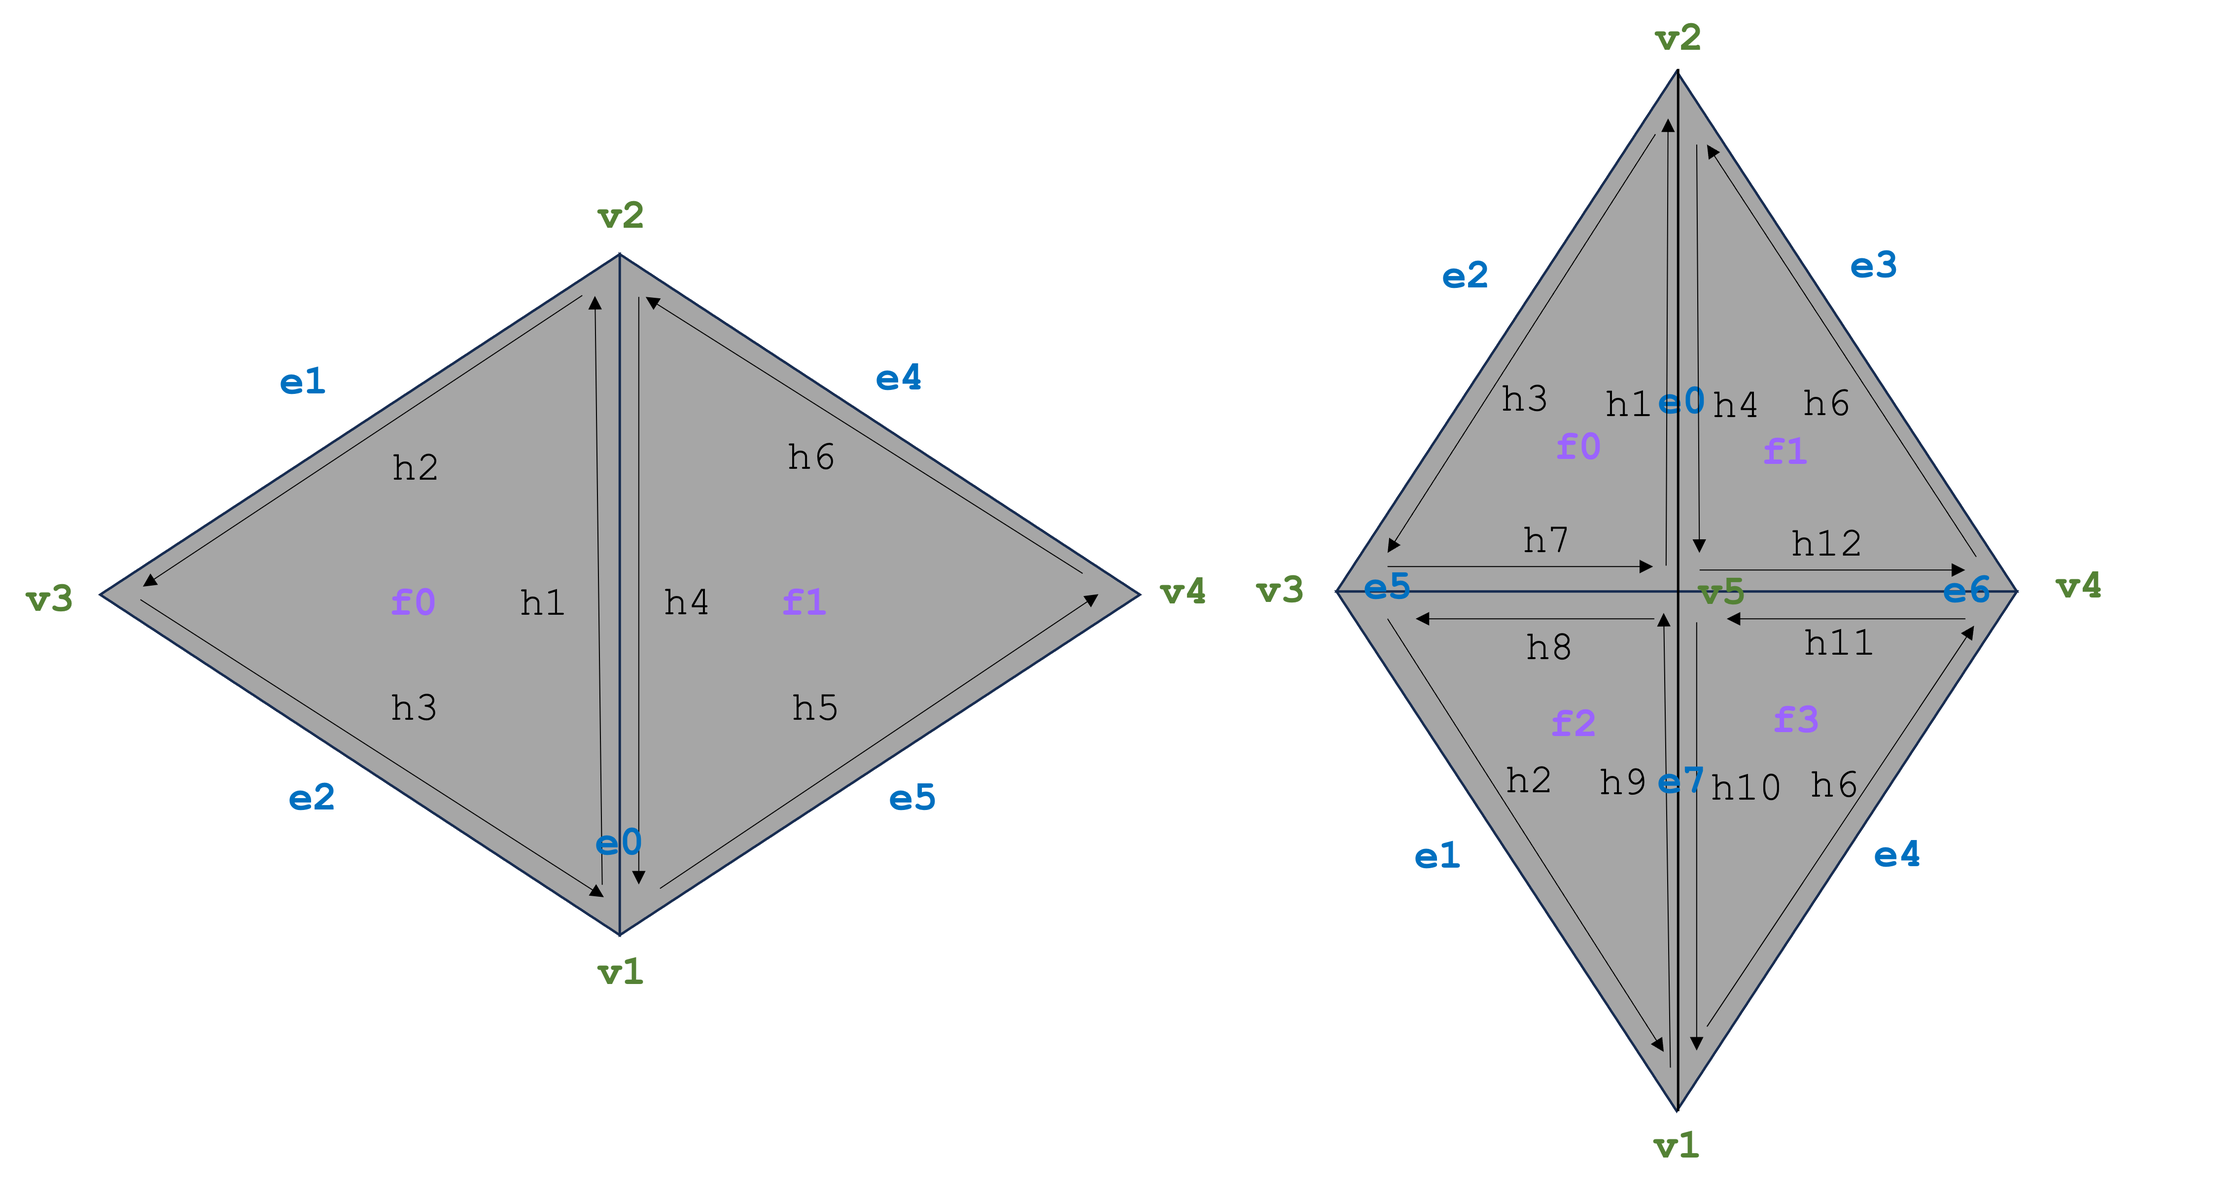
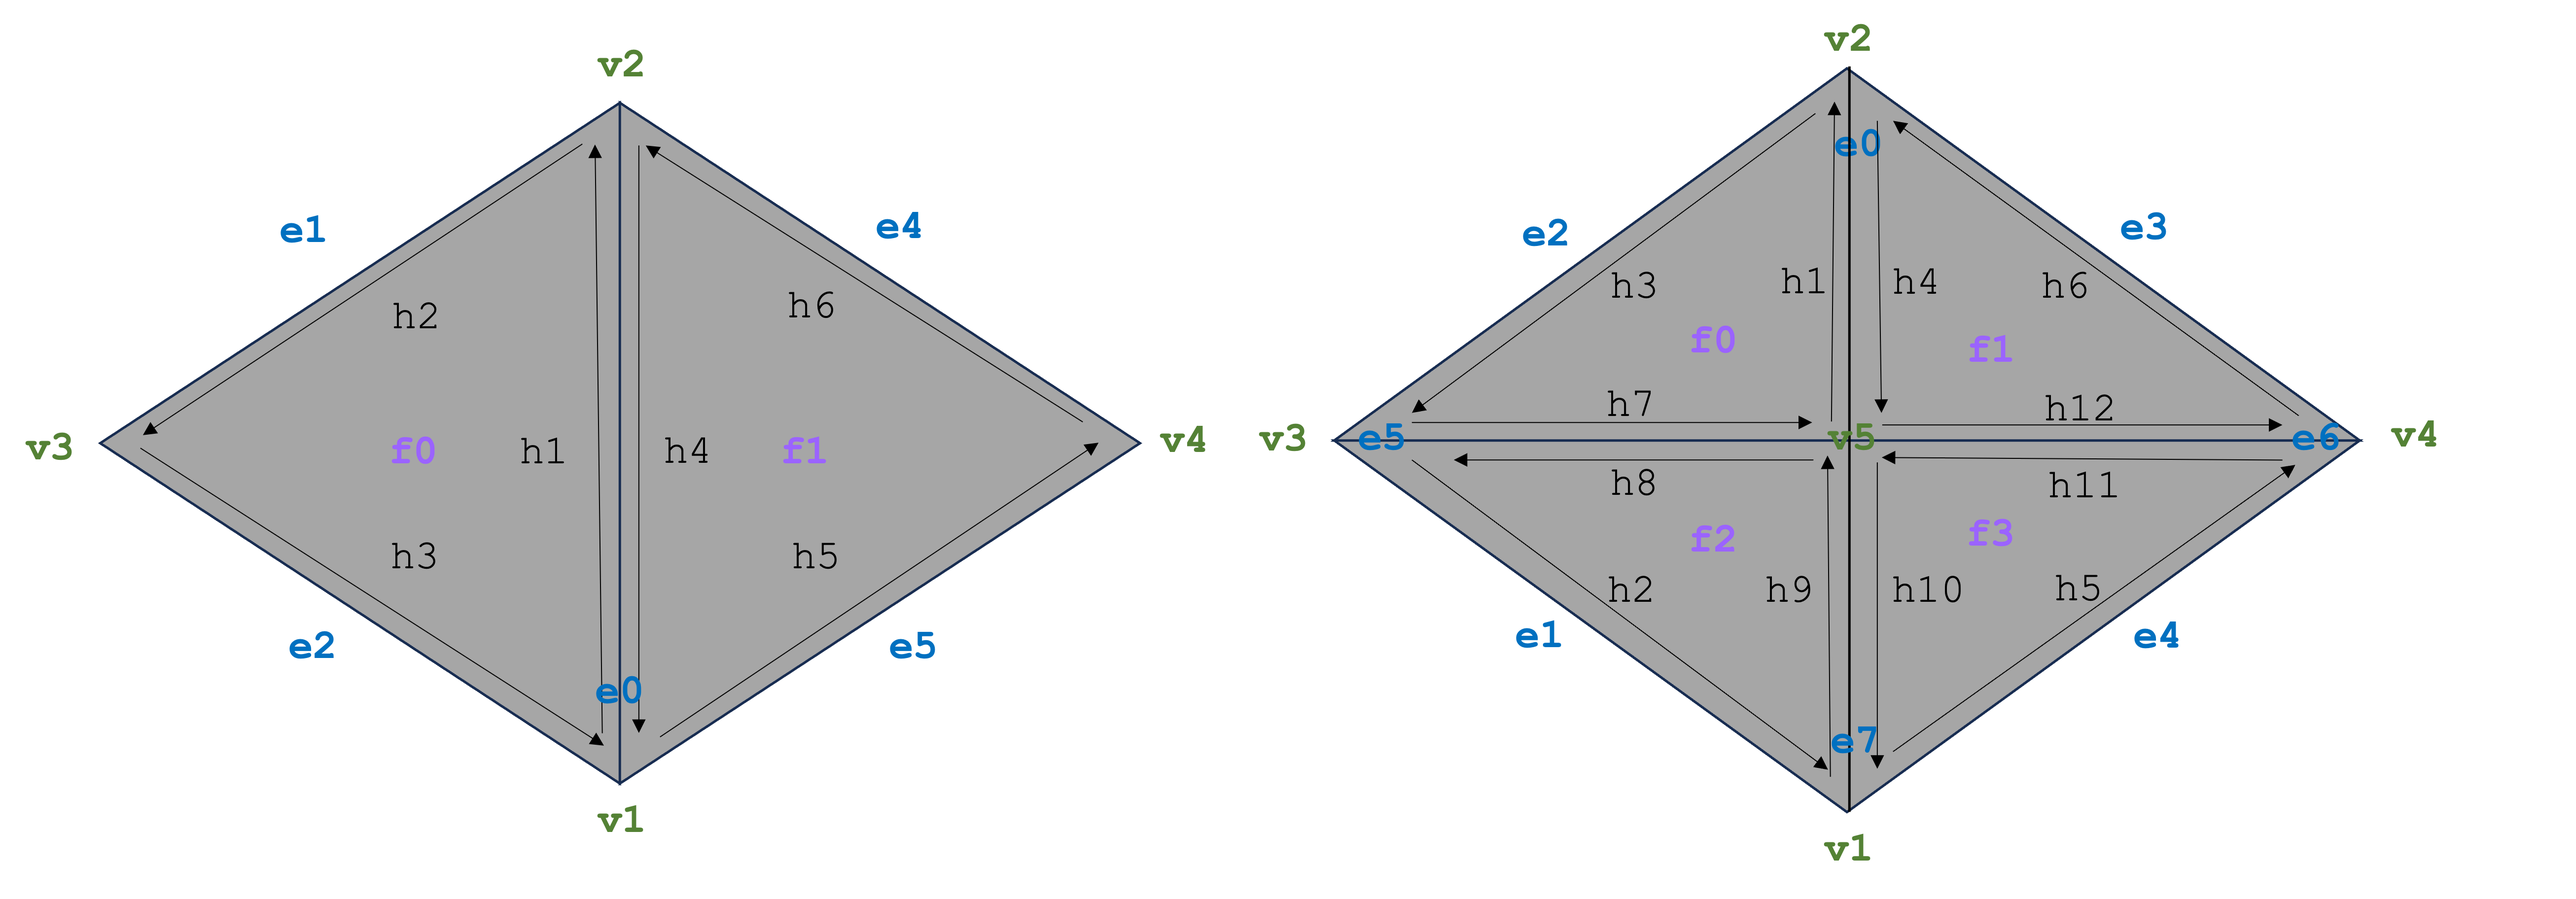
[hw4.5] writeup

diff --git a/hw2.md b/hw2.md
@@ -169,7 +169,7 @@ Utilizing this diagram, we mapped out the pointer changes for edge flips.
   </table>
 </div>
 
-Our main implementation strategy was first checking whether the edge to flip was a boundary, and if so, returning. THen, we stored all the current elements as diagrammed above (with the same naming conventions). Then, we <code class="language-plaintext highlighter-rouge">setNeighbors</code> for all the halfedges, ensuring that their <code class="language-plaintext highlighter-rouge">next</code>, <code class="language-plaintext highlighter-rouge">twin</code>, <code class="language-plaintext highlighter-rouge">vertex</code>, <code class="language-plaintext highlighter-rouge">edge</code>, and <code class="language-plaintext highlighter-rouge">face</code> matched that of the diagram we've shown above. Following that, we set each of the vertice's halfedges arbitrarily (so long as it was an outgoing halfedge). Then, we set each edge's halfedge and set each face's halfedge.
+Our main implementation strategy was first checking whether the edge to flip was a boundary, and if so, returning. Then, we stored all the current elements as diagrammed above (with the same naming conventions). Then, we <code class="language-plaintext highlighter-rouge">setNeighbors</code> for all the halfedges, ensuring that their <code class="language-plaintext highlighter-rouge">next</code>, <code class="language-plaintext highlighter-rouge">twin</code>, <code class="language-plaintext highlighter-rouge">vertex</code>, <code class="language-plaintext highlighter-rouge">edge</code>, and <code class="language-plaintext highlighter-rouge">face</code> matched that of the diagram we've shown above. Following that, we set each of the vertice's halfedges arbitrarily (so long as it was an outgoing halfedge). Then, we set each edge's halfedge and set each face's halfedge.
 
 The main debugging trick we came up with was drawing out this diagram to ensure that we knew where everything was following the flip. This was also a great check to make sure we weren't deleting or adding any edges, halfedges, faces, or vertices.
 
@@ -217,6 +217,16 @@ Utilizing this diagram, we mapped out the pointer changes for edge splits.
   </table>
 </div>
 
+Our main implementation strategy was first checking whether the edge to split was a boundary, and if so, we implemented boundary checking the [extra credit](/hw2.md#extra-credit-beep-beep) (so check that out!). Then, we stored all the current elements as diagrammed above (with the same naming conventions). We created all the necessary new elements (checking boundary conditions), specifically in the case with no boundary: 6 new halfedges, 3 new edges, 1 new vertex, and 2 new faces.
+
+Our new vertex was set as the direct midpoint of the edge we were splitting (calculating the distance from the two vertices connecting that edge).
+
+Then, we <code class="language-plaintext highlighter-rouge">setNeighbors</code> for all the halfedges, ensuring that their <code class="language-plaintext highlighter-rouge">next</code>, <code class="language-plaintext highlighter-rouge">twin</code>, <code class="language-plaintext highlighter-rouge">vertex</code>, <code class="language-plaintext highlighter-rouge">edge</code>, and <code class="language-plaintext highlighter-rouge">face</code> matched that of the diagram we've shown above. Following that, we set each of the vertice's halfedges arbitrarily (so long as it was an outgoing halfedge). Then, we set each edge's halfedge and set each face's halfedge.
+
+The main debugging trick we came up with was drawing out this diagram to ensure that we knew where everything was following the flip. This was also a great check to make sure we weren't deleting or adding any edges, halfedges, faces, or vertices. Following [Task 4](/hw2.md#task-4-edge-flip), we were a lot more careful in our diagram construction, and this meant we didn't actually have any difficult debugging.
+
+Below are images of dae/teapot.dae before and after edge flips and splits, as captioned, with default flat and Phong shading.
+
 <div align="center">
   <table style="width:100%">
     <tr>
@@ -263,6 +273,13 @@ Utilizing this diagram, we mapped out the pointer changes for edge splits.
 </div>
 
 ### Extra Credit (beep beep!)
+
+Handling boundary splits was difficult in understanding how to navigate the halfedges that lined the the central two edges. However, when we realized that the halfedges didn't need to form triangles, this solved our problems, as we could have, for instance, halfedge <code class="language-plaintext highlighter-rouge">h_4</code>'s <code class="language-plaintext highlighter-rouge">next</code> point to halfedge <code class="language-plaintext highlighter-rouge">h_10</code> if we were not creating the <code class="language-plaintext highlighter-rouge">e_5</code> edge.
+
+For implementation, we checked whether we would need to create a left boundary or a right boundary, and based on that, we changed the vertices, edges, halfedges, and faces for that. For instance, if we had a left boundary, this means that we wouldn't want to be constructing <code class="language-plaintext highlighter-rouge">e_5</code>, which meant that in our construction, we wouldn't need <code class="language-plaintext highlighter-rouge">h_7</code> or <code class="language-plaintext highlighter-rouge">h_8</code>, nor <code class="language-plaintext highlighter-rouge">f_2</code> (since we could use <code class="language-plaintext highlighter-rouge">f_0</code> for the entire left side). Then, we'd <code class="language-plaintext highlighter-rouge">setNeighbors</code> of halfedges and set halfedges of other mesh objects as coordinating to the diagram.
+
+Here is a diagram of dae/beetle.dae before any boundary edge splitting. Notice that for the highlighted white edge, its <code class="language-plaintext highlighter-rouge">isBoundary()</code> is <code class="language-plaintext highlighter-rouge">1</code>, which means this is a boundary edge. This makes sense since we've hit the edge of a surface (the window!).
+
 <div align="center">
   <table style="width:100%">
     <tr>
@@ -273,6 +290,8 @@ Utilizing this diagram, we mapped out the pointer changes for edge splits.
     </tr>
   </table>
 </div>
+
+Here are images of dae/beetle.dae after splitting the edges around the nearest window in a pattern with both default flat and Phong shading. Beeep beep!
 
 <div align="center">
   <table style="width:100%">
